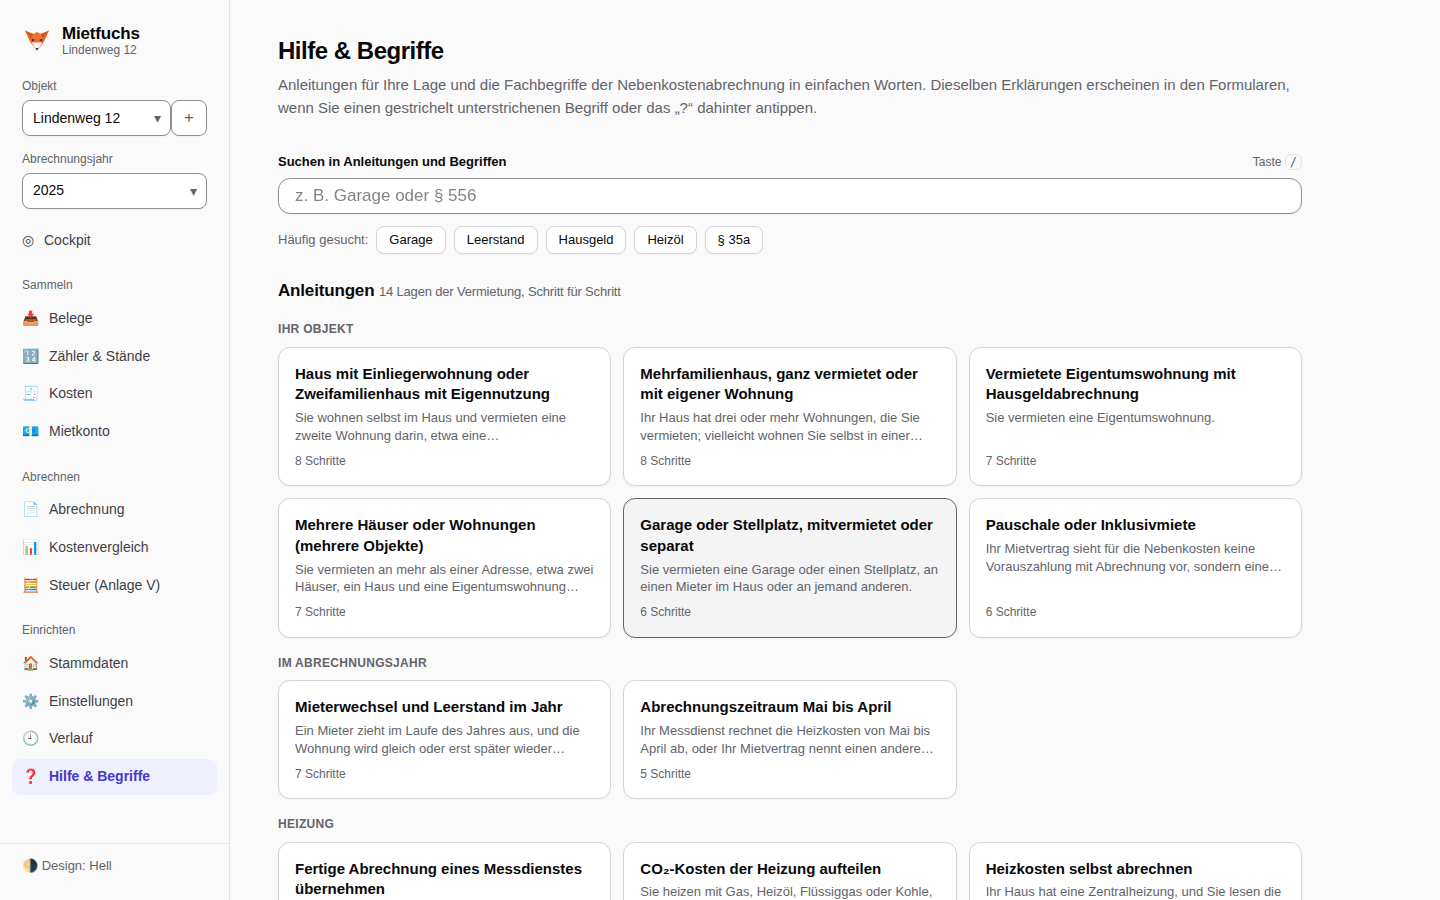
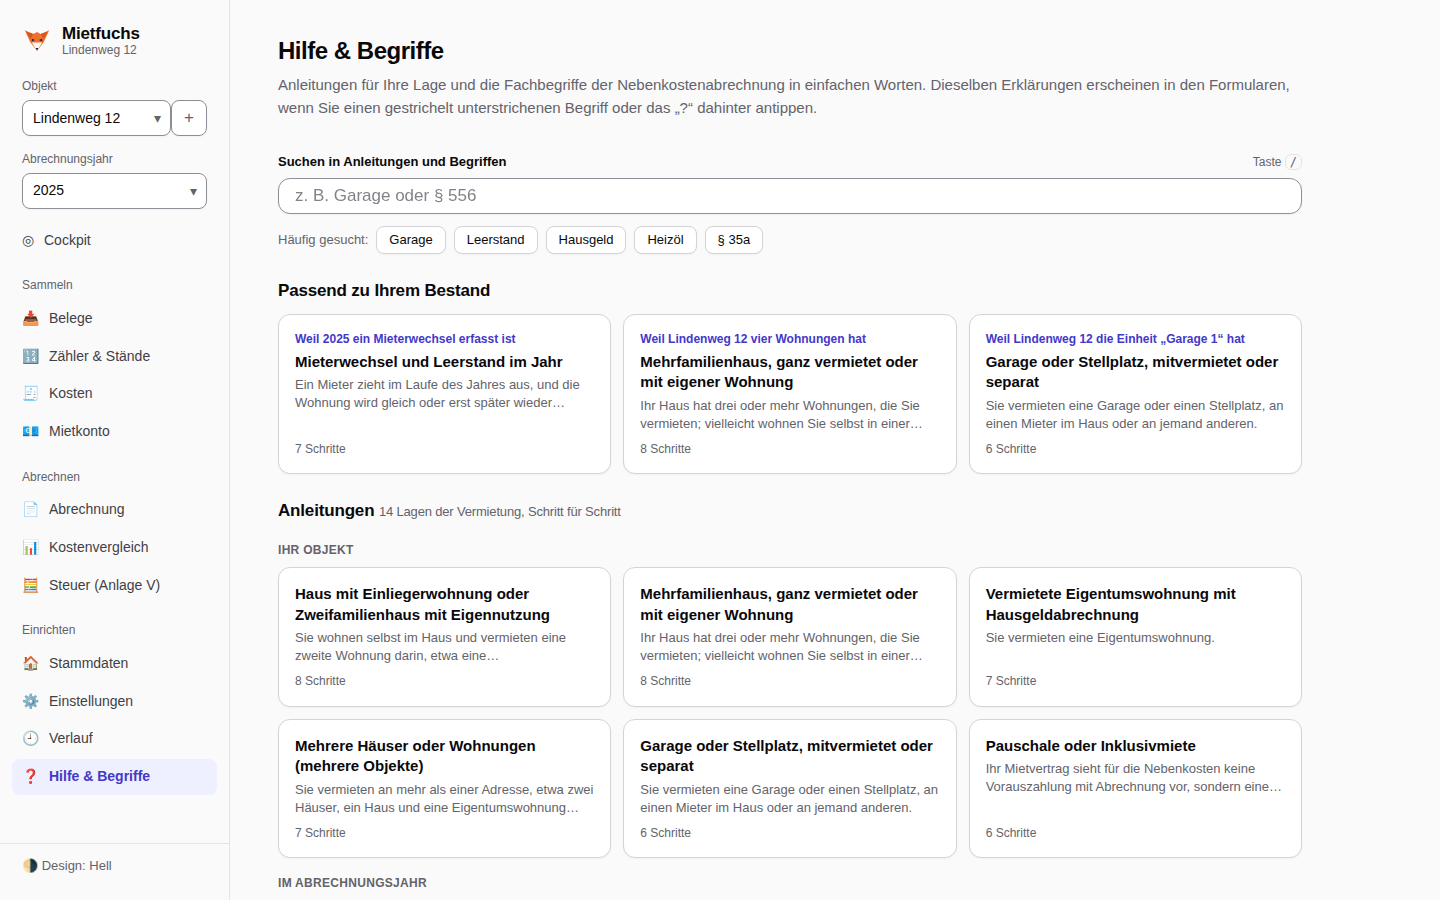
chore(release): v0.14.1 (#523)
Version 0.14.1 in den drei package.json samt Lockfiles, CHANGELOG-Abschnitt
[0.14.1] mit Vergleichslinks, Bildschirmfoto der Hilfe neu („Passend zu Ihrem
Bestand“). Kein neuer Datenschritt, daher kein Eintrag in RELEASE_STEPS.

diff --git a/CHANGELOG.md b/CHANGELOG.md
@@ -6,18 +6,21 @@ Alle nennenswerten Änderungen an Mietfuchs. Das Format orientiert sich an
 
 ## [Unveröffentlicht]
 
+## [0.14.1] – 2026-11-01
+
 ### Hinzugefügt
 
 - **Über Mietfuchs** am Ende der Einstellungen: Version und Updates (bisher eine eigene Karte), dazu der Hinweis, dass
   Mietfuchs keine Rechts- oder Steuerberatung ersetzt und Ergebnisse vor dem Versand zu prüfen sind, Urheber, Lizenz
-  (AGPL-3.0, ohne Gewähr) und Links zu Lizenz und Quellcode. Derselbe Hinweis steht in der Beschreibung im Microsoft
-  Store.
-
+  (AGPL-3.0, ohne Gewähr) und Links zu Lizenz und Quellcode. In der App aus dem Microsoft Store steht dort, dass der
+  Store neue Versionen installiert, sobald Mietfuchs beendet ist. Der Hinweis zur Beratung steht auch in der
+  Beschreibung im Store.
 - **Passend zu Ihrem Bestand** in „Hilfe & Begriffe“: Über den Anleitungen stehen bis zu drei, die zu Ihren Daten
   passen, jede mit dem Grund, etwa „Weil 2025 ein Mieterwechsel erfasst ist“ oder „Weil eine Gas-Zentralheizung
   eingetragen ist“. Mietfuchs leitet sie aus Art und Wohnungen des gewählten Objekts, der Heizung, Mieterwechsel und
   Leerstand, Pauschalen und dem Abrechnungszeitraum ab; passt keine, entfällt der Abschnitt
   ([#488](https://github.com/speedone/mietfuchs/issues/488)).
+
 ### Geändert
 
 - Das Lexikon in „Hilfe & Begriffe“ steht in zwei Spalten: links die Begriffe von A bis Z mit Filter nach Thema, rechts
@@ -25,7 +28,6 @@ Alle nennenswerten Änderungen an Mietfuchs. Das Format orientiert sich an
   Begriffen. Am Handy erst die Liste, dann der Begriff. „Mehr in ‚Hilfe & Begriffe‘ →“ aus einem Formular, ein
   Suchtreffer und ein Begriff in einer Anleitung öffnen ihn dort unmittelbar
   ([#488](https://github.com/speedone/mietfuchs/issues/488)).
-
 - Die Programmdatei unter Windows und macOS vermerkt beim Start, wo ihr Datenordner liegt, in einer Datei im
   Benutzerordner. Eine spätere Fassung mit eigenem Programmfenster findet die Daten so und bietet den Umzug selbst an
   ([#517](https://github.com/speedone/mietfuchs/issues/517)). Die Datei verlässt den Rechner nicht.
@@ -3286,7 +3288,8 @@ Verteilung nach Wohnfläche, Personenzahl, Wohneinheiten, Verbrauch oder Direktz
 druckfertige Abrechnung je Mieter, Mietkonto, Steuerübersicht für die Anlage V, optionale
 KI-Belegauswertung gegen eine lokale Ollama-Instanz, Backup und Wiederherstellung.
 
-[Unveröffentlicht]: https://github.com/speedone/mietfuchs/compare/v0.14.0...HEAD
+[Unveröffentlicht]: https://github.com/speedone/mietfuchs/compare/v0.14.1...HEAD
+[0.14.1]: https://github.com/speedone/mietfuchs/compare/v0.14.0...v0.14.1
 [0.14.0]: https://github.com/speedone/mietfuchs/compare/v0.13.1...v0.14.0
 [0.13.1]: https://github.com/speedone/mietfuchs/compare/v0.13.0...v0.13.1
 [0.13.0]: https://github.com/speedone/mietfuchs/compare/v0.12.0...v0.13.0
